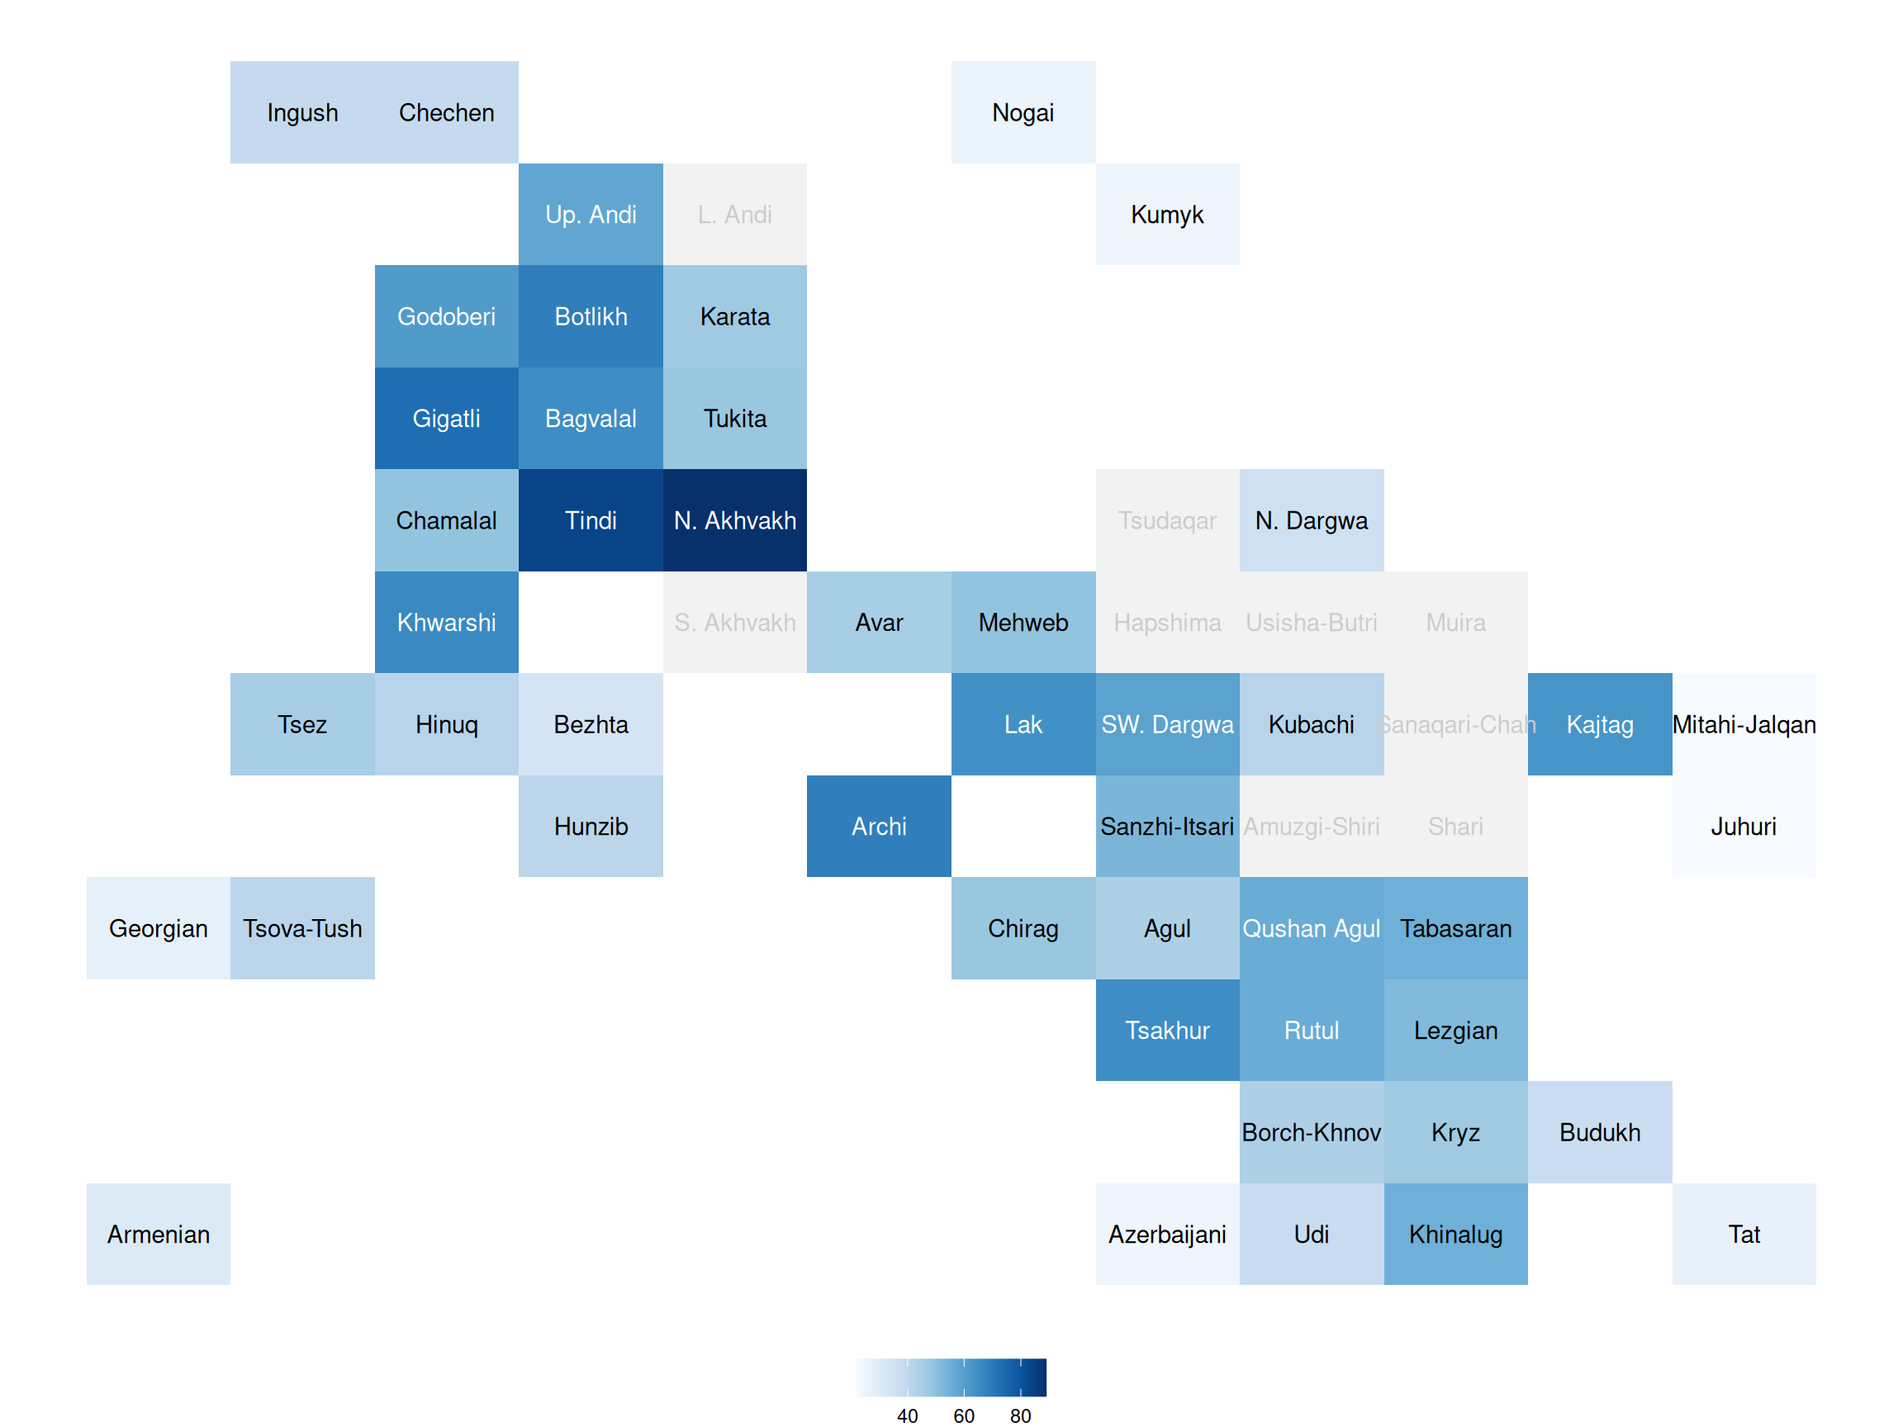
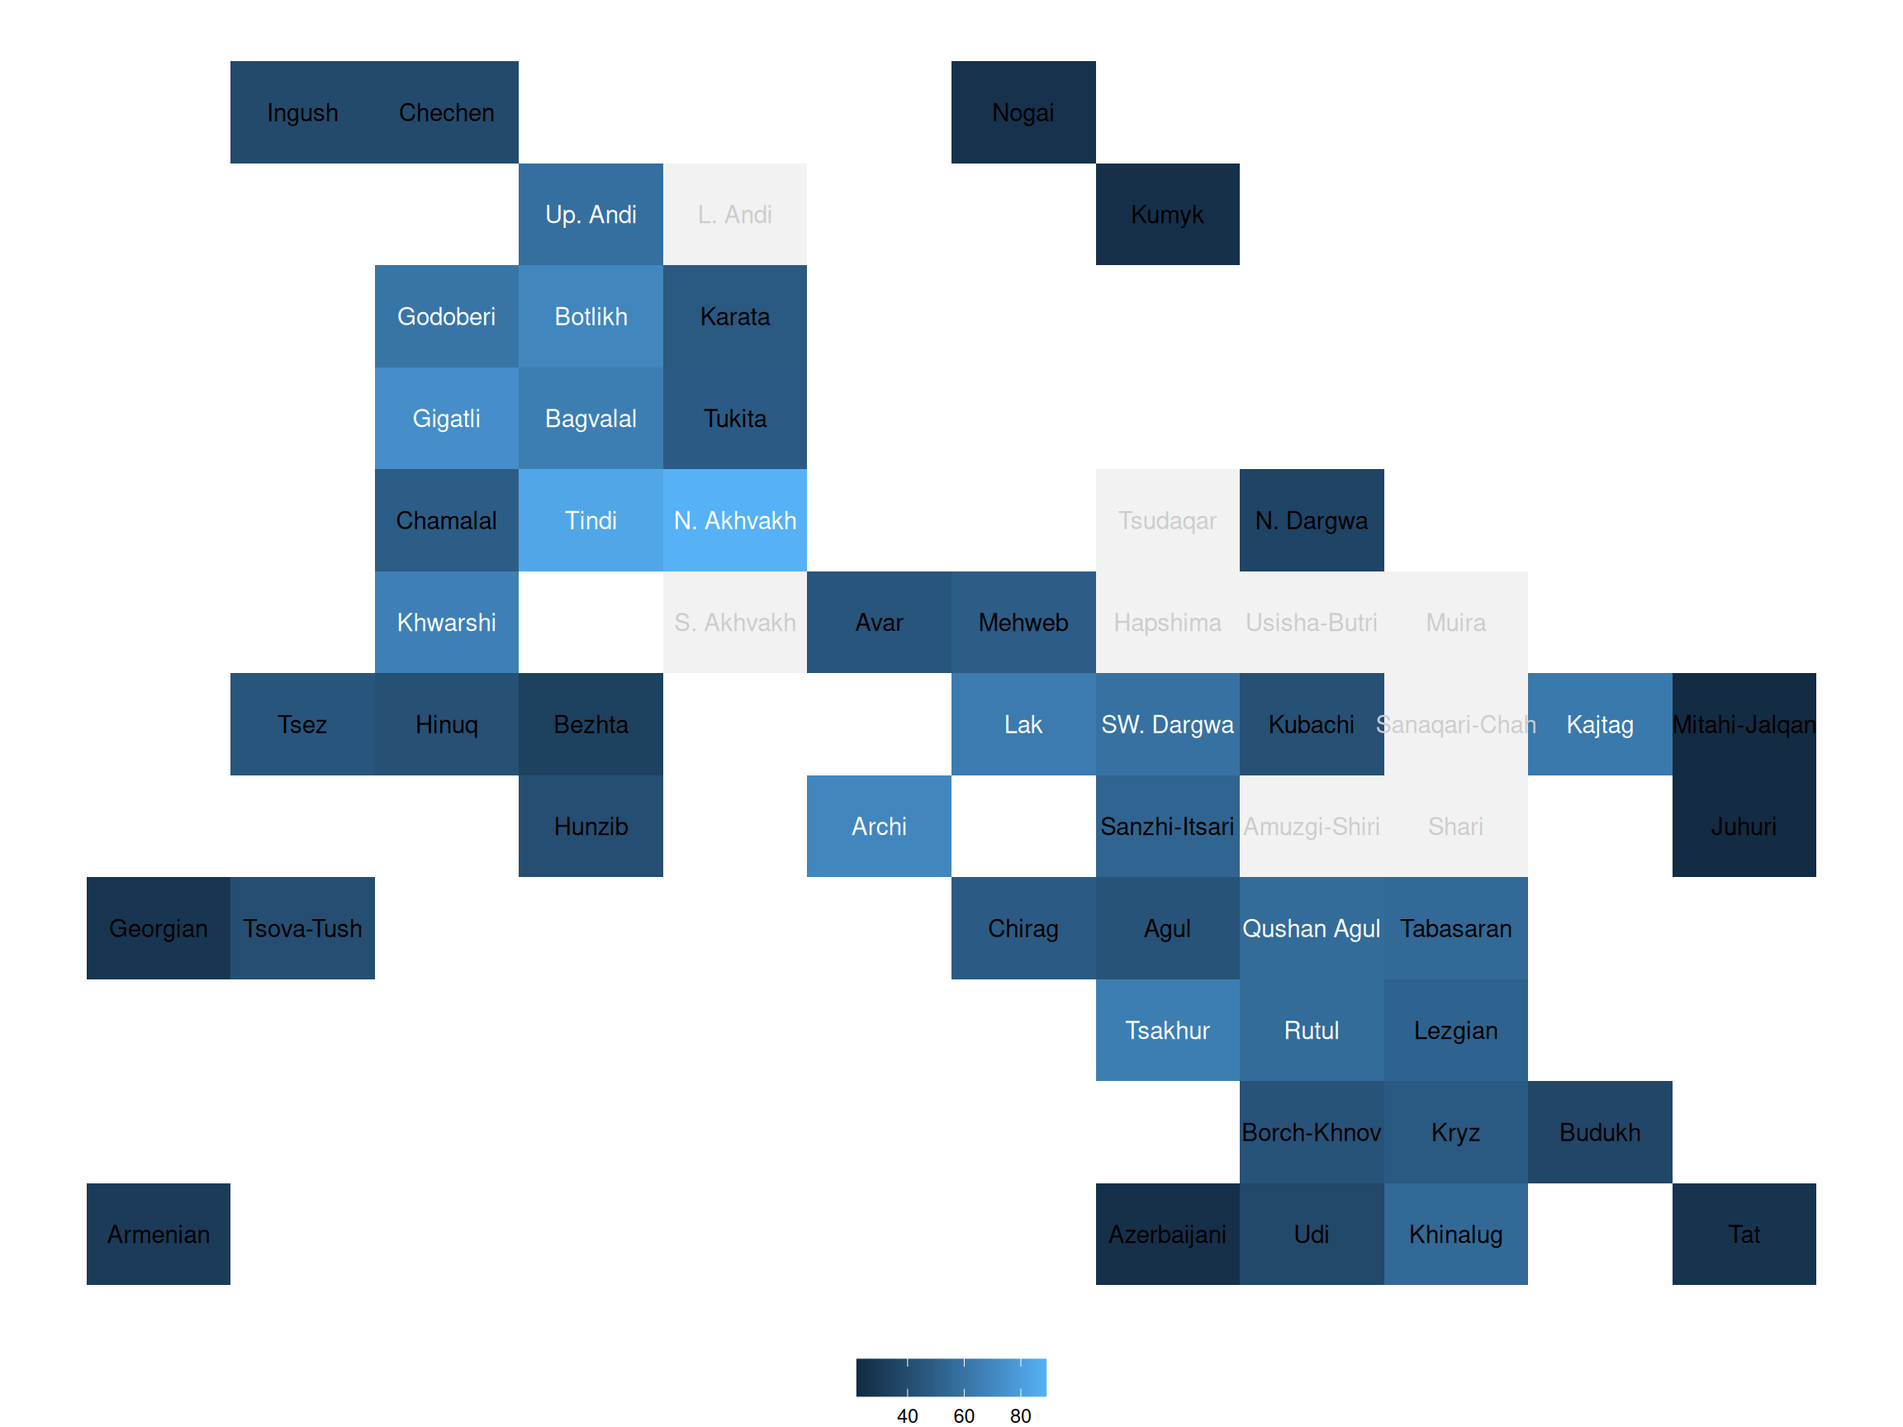
update categorical tile maps

diff --git a/docs/index.html b/docs/index.html
@@ -392,8 +392,7 @@ A BibTeX entry for LaTeX users is
 <div class="sourceCode cell-code" id="cb23"><pre class="sourceCode r code-with-copy"><code class="sourceCode r"><span id="cb23-1"><a href="#cb23-1" aria-hidden="true" tabindex="-1"></a><span class="fu">ec_tile_map</span>(ec_languages,</span>
 <span id="cb23-2"><a href="#cb23-2" aria-hidden="true" tabindex="-1"></a>            <span class="at">feature_column =</span> <span class="st">"morning_greetings"</span>,</span>
 <span id="cb23-3"><a href="#cb23-3" aria-hidden="true" tabindex="-1"></a>            <span class="at">title =</span> <span class="st">"Morning greetings (Naccarato, Verhees 2021)"</span>,</span>
-<span id="cb23-4"><a href="#cb23-4" aria-hidden="true" tabindex="-1"></a>            <span class="at">tile_colors =</span> <span class="st">"Pastel1"</span>, </span>
-<span id="cb23-5"><a href="#cb23-5" aria-hidden="true" tabindex="-1"></a>            <span class="at">palette_reverse =</span> <span class="cn">TRUE</span>)</span></code><button title="Copy to Clipboard" class="code-copy-button"><i class="bi"></i></button></pre></div>
+<span id="cb23-4"><a href="#cb23-4" aria-hidden="true" tabindex="-1"></a>            <span class="at">tile_colors =</span> <span class="st">"Pastel1"</span>)</span></code><button title="Copy to Clipboard" class="code-copy-button"><i class="bi"></i></button></pre></div>
 <div class="cell-output-display">
 <div>
 <figure class="figure">
@@ -401,13 +400,25 @@ A BibTeX entry for LaTeX users is
 </figure>
 </div>
 </div>
-</div>
-<p>To define your own palette for a categorical variable, you can use the <code>tile_colors</code> argument. Just keep an eye on prodviding the same amount of colors as you have in the feature variable.</p>
-<div class="cell">
 <div class="sourceCode cell-code" id="cb24"><pre class="sourceCode r code-with-copy"><code class="sourceCode r"><span id="cb24-1"><a href="#cb24-1" aria-hidden="true" tabindex="-1"></a><span class="fu">ec_tile_map</span>(ec_languages,</span>
 <span id="cb24-2"><a href="#cb24-2" aria-hidden="true" tabindex="-1"></a>            <span class="at">feature_column =</span> <span class="st">"morning_greetings"</span>,</span>
 <span id="cb24-3"><a href="#cb24-3" aria-hidden="true" tabindex="-1"></a>            <span class="at">title =</span> <span class="st">"Morning greetings (Naccarato, Verhees 2021)"</span>,</span>
-<span id="cb24-4"><a href="#cb24-4" aria-hidden="true" tabindex="-1"></a>            <span class="at">tile_colors =</span> <span class="fu">c</span>(<span class="st">"#D81E05"</span>, <span class="st">"#0070A1"</span>, <span class="st">"#00923F"</span>))</span></code><button title="Copy to Clipboard" class="code-copy-button"><i class="bi"></i></button></pre></div>
+<span id="cb24-4"><a href="#cb24-4" aria-hidden="true" tabindex="-1"></a>            <span class="at">tile_colors =</span> <span class="st">"Pastel1"</span>, </span>
+<span id="cb24-5"><a href="#cb24-5" aria-hidden="true" tabindex="-1"></a>            <span class="at">palette_reverse =</span> <span class="cn">TRUE</span>)</span></code><button title="Copy to Clipboard" class="code-copy-button"><i class="bi"></i></button></pre></div>
+<div class="cell-output-display">
+<div>
+<figure class="figure">
+<p><img src="index_files/figure-html/unnamed-chunk-16-2.png" class="img-fluid figure-img" width="1152"></p>
+</figure>
+</div>
+</div>
+</div>
+<p>To define your own palette for a categorical variable, you can use the <code>tile_colors</code> argument. Just keep an eye on prodviding the same amount of colors as you have in the feature variable.</p>
+<div class="cell">
+<div class="sourceCode cell-code" id="cb25"><pre class="sourceCode r code-with-copy"><code class="sourceCode r"><span id="cb25-1"><a href="#cb25-1" aria-hidden="true" tabindex="-1"></a><span class="fu">ec_tile_map</span>(ec_languages,</span>
+<span id="cb25-2"><a href="#cb25-2" aria-hidden="true" tabindex="-1"></a>            <span class="at">feature_column =</span> <span class="st">"morning_greetings"</span>,</span>
+<span id="cb25-3"><a href="#cb25-3" aria-hidden="true" tabindex="-1"></a>            <span class="at">title =</span> <span class="st">"Morning greetings (Naccarato, Verhees 2021)"</span>,</span>
+<span id="cb25-4"><a href="#cb25-4" aria-hidden="true" tabindex="-1"></a>            <span class="at">tile_colors =</span> <span class="fu">c</span>(<span class="st">"pink"</span>, <span class="st">"#0070A1"</span>, <span class="st">"#00923F"</span>))</span></code><button title="Copy to Clipboard" class="code-copy-button"><i class="bi"></i></button></pre></div>
 <div class="cell-output-display">
 <div>
 <figure class="figure">
@@ -421,12 +432,12 @@ A BibTeX entry for LaTeX users is
 <h2 data-number="5" class="anchored" data-anchor-id="changing-values-order"><span class="header-section-number">5</span> Changing values’ order</h2>
 <p>The default order of values in R is alphabetical. To impose a different order, you can use the <code>factor()</code> function. This function doesn’t change the values themselves, but it instructs R to treat an input vector as ordered. This can be important for features with a natural order. For example, the following demonstrates how to override the default alphabetical order using <code>factor()</code>.</p>
 <div class="cell">
-<div class="sourceCode cell-code" id="cb25"><pre class="sourceCode r code-with-copy"><code class="sourceCode r"><span id="cb25-1"><a href="#cb25-1" aria-hidden="true" tabindex="-1"></a>df <span class="ot">&lt;-</span> <span class="fu">data.frame</span>(<span class="at">language =</span> <span class="fu">c</span>(<span class="st">"Avar"</span>, <span class="st">"Chechen"</span>, <span class="st">"Mehweb"</span>),</span>
-<span id="cb25-2"><a href="#cb25-2" aria-hidden="true" tabindex="-1"></a>                 <span class="at">feature =</span> <span class="fu">c</span>(<span class="st">"value a"</span>, <span class="st">"value b"</span>, <span class="st">"value b"</span>))</span>
-<span id="cb25-3"><a href="#cb25-3" aria-hidden="true" tabindex="-1"></a></span>
-<span id="cb25-4"><a href="#cb25-4" aria-hidden="true" tabindex="-1"></a>df<span class="sc">$</span>feature <span class="ot">&lt;-</span> <span class="fu">factor</span>(df<span class="sc">$</span>feature, <span class="at">levels =</span> <span class="fu">c</span>(<span class="st">"value b"</span>, <span class="st">"value a"</span>))</span>
-<span id="cb25-5"><a href="#cb25-5" aria-hidden="true" tabindex="-1"></a></span>
-<span id="cb25-6"><a href="#cb25-6" aria-hidden="true" tabindex="-1"></a><span class="fu">ec_tile_map</span>(df)</span></code><button title="Copy to Clipboard" class="code-copy-button"><i class="bi"></i></button></pre></div>
+<div class="sourceCode cell-code" id="cb26"><pre class="sourceCode r code-with-copy"><code class="sourceCode r"><span id="cb26-1"><a href="#cb26-1" aria-hidden="true" tabindex="-1"></a>df <span class="ot">&lt;-</span> <span class="fu">data.frame</span>(<span class="at">language =</span> <span class="fu">c</span>(<span class="st">"Avar"</span>, <span class="st">"Chechen"</span>, <span class="st">"Mehweb"</span>),</span>
+<span id="cb26-2"><a href="#cb26-2" aria-hidden="true" tabindex="-1"></a>                 <span class="at">feature =</span> <span class="fu">c</span>(<span class="st">"value a"</span>, <span class="st">"value b"</span>, <span class="st">"value b"</span>))</span>
+<span id="cb26-3"><a href="#cb26-3" aria-hidden="true" tabindex="-1"></a></span>
+<span id="cb26-4"><a href="#cb26-4" aria-hidden="true" tabindex="-1"></a>df<span class="sc">$</span>feature <span class="ot">&lt;-</span> <span class="fu">factor</span>(df<span class="sc">$</span>feature, <span class="at">levels =</span> <span class="fu">c</span>(<span class="st">"value b"</span>, <span class="st">"value a"</span>))</span>
+<span id="cb26-5"><a href="#cb26-5" aria-hidden="true" tabindex="-1"></a></span>
+<span id="cb26-6"><a href="#cb26-6" aria-hidden="true" tabindex="-1"></a><span class="fu">ec_tile_map</span>(df)</span></code><button title="Copy to Clipboard" class="code-copy-button"><i class="bi"></i></button></pre></div>
 <div class="cell-output-display">
 <div>
 <figure class="figure">
@@ -441,10 +452,10 @@ A BibTeX entry for LaTeX users is
 <p>The East Caucasian language family exhibits significant dialectal differentiation. A unified genealogical classification of all idioms spoken in Daghestan does not exist. The default language inventory in <code>RCaucTile</code> is based on the genealogical classification from the Typological Atlas of the Languages of Daghestan (see <a href="https://lingconlab.ru/tald/languages.html">the languages page</a>). Therefore, it is highly probable that some researchers may wish to modify the default inventory by removing or altering the names of existing units.</p>
 <p>To remove specific languages from the template, list the desired languages in the <code>hide_languages</code> argument.</p>
 <div class="cell">
-<div class="sourceCode cell-code" id="cb26"><pre class="sourceCode r code-with-copy"><code class="sourceCode r"><span id="cb26-1"><a href="#cb26-1" aria-hidden="true" tabindex="-1"></a><span class="fu">ec_tile_map</span>(ec_languages,</span>
-<span id="cb26-2"><a href="#cb26-2" aria-hidden="true" tabindex="-1"></a>            <span class="at">feature_column =</span> <span class="st">"morning_greetings"</span>,</span>
-<span id="cb26-3"><a href="#cb26-3" aria-hidden="true" tabindex="-1"></a>            <span class="at">title =</span> <span class="st">"Morning greetings (Naccarato, Verhees 2021)"</span>,</span>
-<span id="cb26-4"><a href="#cb26-4" aria-hidden="true" tabindex="-1"></a>            <span class="at">hide_languages =</span> <span class="fu">c</span>(<span class="st">"Gigatli"</span>, <span class="st">"Shari"</span>))</span></code><button title="Copy to Clipboard" class="code-copy-button"><i class="bi"></i></button></pre></div>
+<div class="sourceCode cell-code" id="cb27"><pre class="sourceCode r code-with-copy"><code class="sourceCode r"><span id="cb27-1"><a href="#cb27-1" aria-hidden="true" tabindex="-1"></a><span class="fu">ec_tile_map</span>(ec_languages,</span>
+<span id="cb27-2"><a href="#cb27-2" aria-hidden="true" tabindex="-1"></a>            <span class="at">feature_column =</span> <span class="st">"morning_greetings"</span>,</span>
+<span id="cb27-3"><a href="#cb27-3" aria-hidden="true" tabindex="-1"></a>            <span class="at">title =</span> <span class="st">"Morning greetings (Naccarato, Verhees 2021)"</span>,</span>
+<span id="cb27-4"><a href="#cb27-4" aria-hidden="true" tabindex="-1"></a>            <span class="at">hide_languages =</span> <span class="fu">c</span>(<span class="st">"Gigatli"</span>, <span class="st">"Shari"</span>))</span></code><button title="Copy to Clipboard" class="code-copy-button"><i class="bi"></i></button></pre></div>
 <div class="cell-output-display">
 <div>
 <figure class="figure">
@@ -458,14 +469,14 @@ A BibTeX entry for LaTeX users is
 <li>A named vector, where the names are the old language names and the values are the corresponding new language names.</li>
 </ul>
 <div class="cell">
-<div class="sourceCode cell-code" id="cb27"><pre class="sourceCode r code-with-copy"><code class="sourceCode r"><span id="cb27-1"><a href="#cb27-1" aria-hidden="true" tabindex="-1"></a>new_language_names <span class="ot">&lt;-</span> <span class="fu">c</span>(<span class="st">"Upper Andi"</span> <span class="ot">=</span> <span class="st">"Andi"</span>,</span>
-<span id="cb27-2"><a href="#cb27-2" aria-hidden="true" tabindex="-1"></a>                        <span class="st">"Northern Akhvakh"</span> <span class="ot">=</span> <span class="st">"Akhvakh"</span>)</span>
-<span id="cb27-3"><a href="#cb27-3" aria-hidden="true" tabindex="-1"></a></span>
-<span id="cb27-4"><a href="#cb27-4" aria-hidden="true" tabindex="-1"></a><span class="fu">ec_tile_map</span>(ec_languages,</span>
-<span id="cb27-5"><a href="#cb27-5" aria-hidden="true" tabindex="-1"></a>            <span class="at">feature_column =</span> <span class="st">"morning_greetings"</span>,</span>
-<span id="cb27-6"><a href="#cb27-6" aria-hidden="true" tabindex="-1"></a>            <span class="at">title =</span> <span class="st">"Morning greetings (Naccarato, Verhees 2021)"</span>,</span>
-<span id="cb27-7"><a href="#cb27-7" aria-hidden="true" tabindex="-1"></a>            <span class="at">hide_languages =</span> <span class="fu">c</span>(<span class="st">"Lower Andi"</span>, <span class="st">"Southern Akhvakh"</span>),</span>
-<span id="cb27-8"><a href="#cb27-8" aria-hidden="true" tabindex="-1"></a>            <span class="at">rename_languages =</span> new_language_names)</span></code><button title="Copy to Clipboard" class="code-copy-button"><i class="bi"></i></button></pre></div>
+<div class="sourceCode cell-code" id="cb28"><pre class="sourceCode r code-with-copy"><code class="sourceCode r"><span id="cb28-1"><a href="#cb28-1" aria-hidden="true" tabindex="-1"></a>new_language_names <span class="ot">&lt;-</span> <span class="fu">c</span>(<span class="st">"Upper Andi"</span> <span class="ot">=</span> <span class="st">"Andi"</span>,</span>
+<span id="cb28-2"><a href="#cb28-2" aria-hidden="true" tabindex="-1"></a>                        <span class="st">"Northern Akhvakh"</span> <span class="ot">=</span> <span class="st">"Akhvakh"</span>)</span>
+<span id="cb28-3"><a href="#cb28-3" aria-hidden="true" tabindex="-1"></a></span>
+<span id="cb28-4"><a href="#cb28-4" aria-hidden="true" tabindex="-1"></a><span class="fu">ec_tile_map</span>(ec_languages,</span>
+<span id="cb28-5"><a href="#cb28-5" aria-hidden="true" tabindex="-1"></a>            <span class="at">feature_column =</span> <span class="st">"morning_greetings"</span>,</span>
+<span id="cb28-6"><a href="#cb28-6" aria-hidden="true" tabindex="-1"></a>            <span class="at">title =</span> <span class="st">"Morning greetings (Naccarato, Verhees 2021)"</span>,</span>
+<span id="cb28-7"><a href="#cb28-7" aria-hidden="true" tabindex="-1"></a>            <span class="at">hide_languages =</span> <span class="fu">c</span>(<span class="st">"Lower Andi"</span>, <span class="st">"Southern Akhvakh"</span>),</span>
+<span id="cb28-8"><a href="#cb28-8" aria-hidden="true" tabindex="-1"></a>            <span class="at">rename_languages =</span> new_language_names)</span></code><button title="Copy to Clipboard" class="code-copy-button"><i class="bi"></i></button></pre></div>
 <div class="cell-output-display">
 <div>
 <figure class="figure">
@@ -478,14 +489,14 @@ A BibTeX entry for LaTeX users is
 <li>A data frame with two columns: <code>language</code> (the old language names) and <code>new_language_name</code> (the corresponding new language names).</li>
 </ul>
 <div class="cell">
-<div class="sourceCode cell-code" id="cb28"><pre class="sourceCode r code-with-copy"><code class="sourceCode r"><span id="cb28-1"><a href="#cb28-1" aria-hidden="true" tabindex="-1"></a>new_language_names <span class="ot">&lt;-</span> <span class="fu">data.frame</span>(<span class="at">language =</span> <span class="fu">c</span>(<span class="st">"Upper Andi"</span>, <span class="st">"Northern Akhvakh"</span>),</span>
-<span id="cb28-2"><a href="#cb28-2" aria-hidden="true" tabindex="-1"></a>                                 <span class="at">new_language_name =</span> <span class="fu">c</span>(<span class="st">"Andi"</span>, <span class="st">"Akhvakh"</span>))</span>
-<span id="cb28-3"><a href="#cb28-3" aria-hidden="true" tabindex="-1"></a></span>
-<span id="cb28-4"><a href="#cb28-4" aria-hidden="true" tabindex="-1"></a><span class="fu">ec_tile_map</span>(ec_languages,</span>
-<span id="cb28-5"><a href="#cb28-5" aria-hidden="true" tabindex="-1"></a>            <span class="at">feature_column =</span> <span class="st">"morning_greetings"</span>,</span>
-<span id="cb28-6"><a href="#cb28-6" aria-hidden="true" tabindex="-1"></a>            <span class="at">title =</span> <span class="st">"Morning greetings (Naccarato, Verhees 2021)"</span>,</span>
-<span id="cb28-7"><a href="#cb28-7" aria-hidden="true" tabindex="-1"></a>            <span class="at">hide_languages =</span> <span class="fu">c</span>(<span class="st">"Lower Andi"</span>, <span class="st">"Southern Akhvakh"</span>),</span>
-<span id="cb28-8"><a href="#cb28-8" aria-hidden="true" tabindex="-1"></a>            <span class="at">rename_languages =</span> new_language_names)</span></code><button title="Copy to Clipboard" class="code-copy-button"><i class="bi"></i></button></pre></div>
+<div class="sourceCode cell-code" id="cb29"><pre class="sourceCode r code-with-copy"><code class="sourceCode r"><span id="cb29-1"><a href="#cb29-1" aria-hidden="true" tabindex="-1"></a>new_language_names <span class="ot">&lt;-</span> <span class="fu">data.frame</span>(<span class="at">language =</span> <span class="fu">c</span>(<span class="st">"Upper Andi"</span>, <span class="st">"Northern Akhvakh"</span>),</span>
+<span id="cb29-2"><a href="#cb29-2" aria-hidden="true" tabindex="-1"></a>                                 <span class="at">new_language_name =</span> <span class="fu">c</span>(<span class="st">"Andi"</span>, <span class="st">"Akhvakh"</span>))</span>
+<span id="cb29-3"><a href="#cb29-3" aria-hidden="true" tabindex="-1"></a></span>
+<span id="cb29-4"><a href="#cb29-4" aria-hidden="true" tabindex="-1"></a><span class="fu">ec_tile_map</span>(ec_languages,</span>
+<span id="cb29-5"><a href="#cb29-5" aria-hidden="true" tabindex="-1"></a>            <span class="at">feature_column =</span> <span class="st">"morning_greetings"</span>,</span>
+<span id="cb29-6"><a href="#cb29-6" aria-hidden="true" tabindex="-1"></a>            <span class="at">title =</span> <span class="st">"Morning greetings (Naccarato, Verhees 2021)"</span>,</span>
+<span id="cb29-7"><a href="#cb29-7" aria-hidden="true" tabindex="-1"></a>            <span class="at">hide_languages =</span> <span class="fu">c</span>(<span class="st">"Lower Andi"</span>, <span class="st">"Southern Akhvakh"</span>),</span>
+<span id="cb29-8"><a href="#cb29-8" aria-hidden="true" tabindex="-1"></a>            <span class="at">rename_languages =</span> new_language_names)</span></code><button title="Copy to Clipboard" class="code-copy-button"><i class="bi"></i></button></pre></div>
 <div class="cell-output-display">
 <div>
 <figure class="figure">
